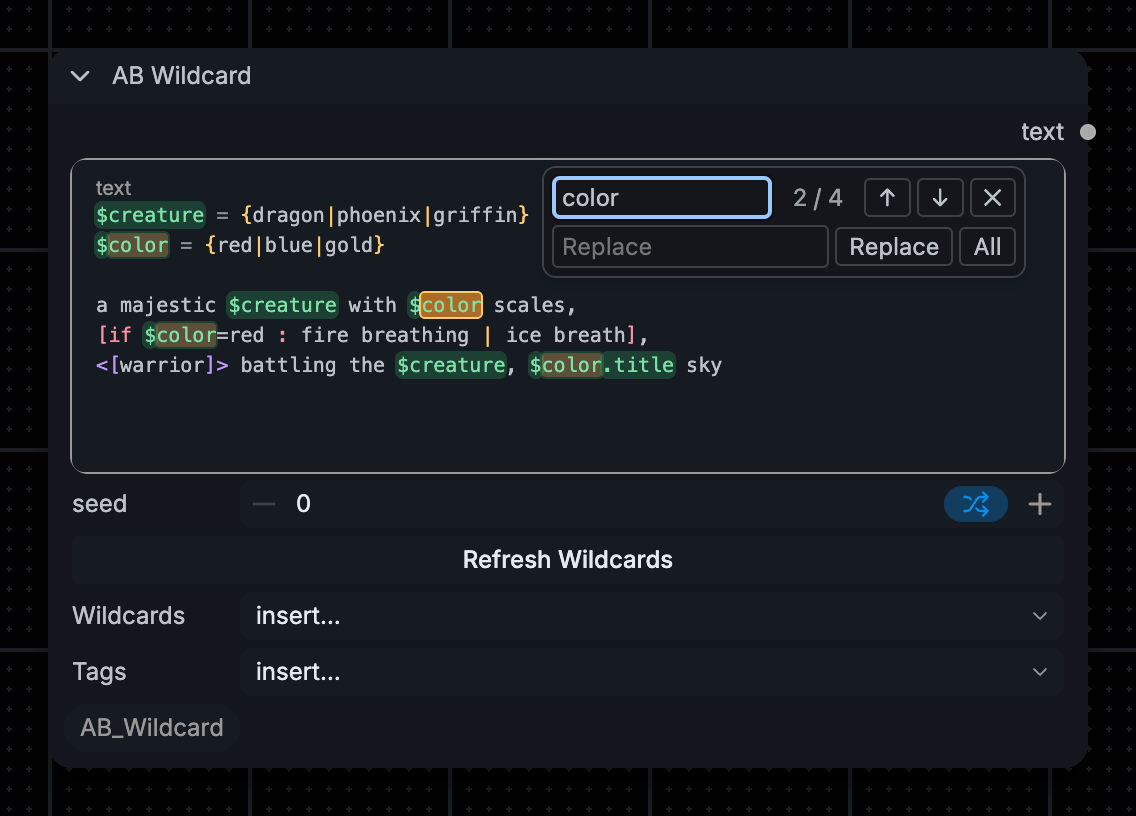
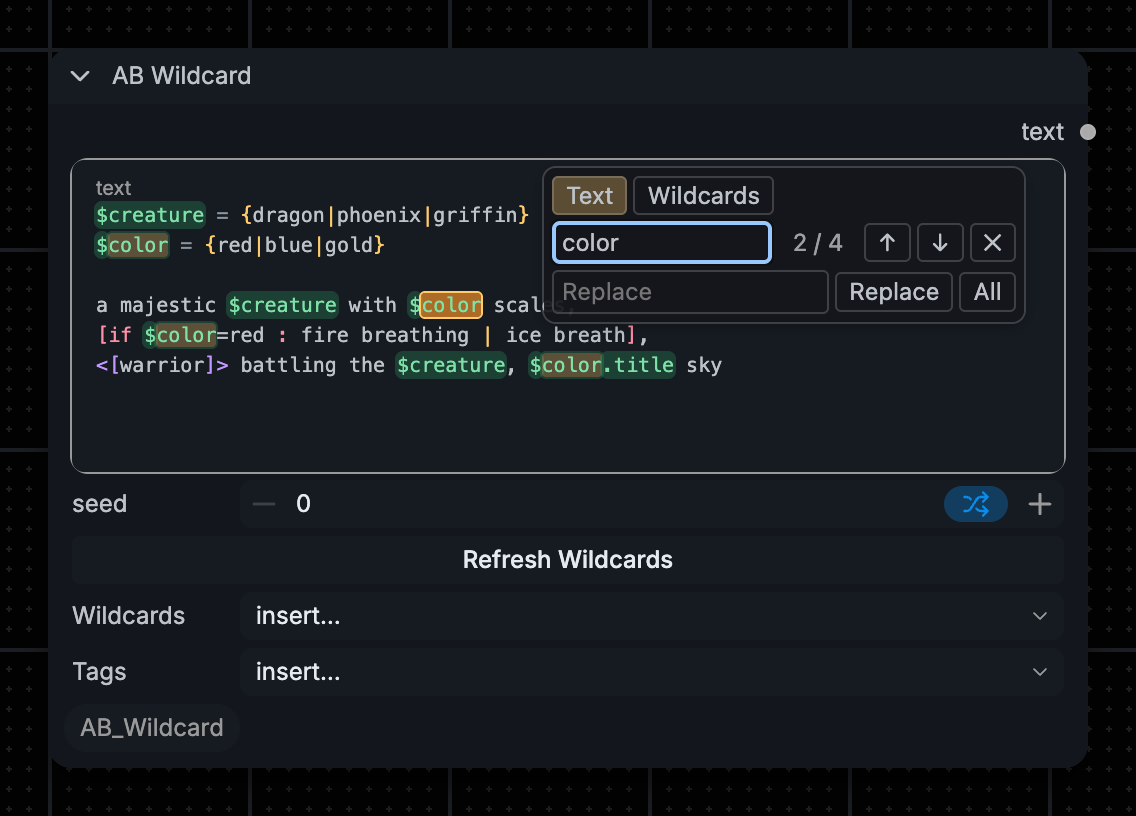
docs: screenshot of the Wildcards mode; find bar screenshot with the mode switch
Replaces ab-wildcard-find-preview.png from 1.5.0, which showed the bar without
the Text | Wildcards switch.

Changed region(s): [[0.4621, 0.2145, 0.8935, 0.3983]]

diff --git a/README.md b/README.md
@@ -123,6 +123,8 @@ Click into the text field and press **Cmd/Ctrl+F**. A small bar opens on the fie
 
 Switch the bar from **Text** to **Wildcards** to search your wildcard files and cards instead of the text field:
 
+![Find bar in Wildcards mode: searching emerald lists the file examples/colors and the card Shades Of Green](example_workflows/ab-wildcard-search-preview.png)
+
 - Type at least two characters, e.g. `emerald`. One row per insertable token appears: the name (cards in colour), the first matching line as a preview, and `+n` for further matching lines.
 - Files match on their name and every line (csv: every cell); cards on title, prompts, description and tags. Case-insensitive, plain text; name matches are listed first, at most 50 rows.
 - **Arrow Up/Down** and **Enter**, or a click, insert `__token__` at the caret and close the bar. One **Cmd/Ctrl+Z** removes it again.
